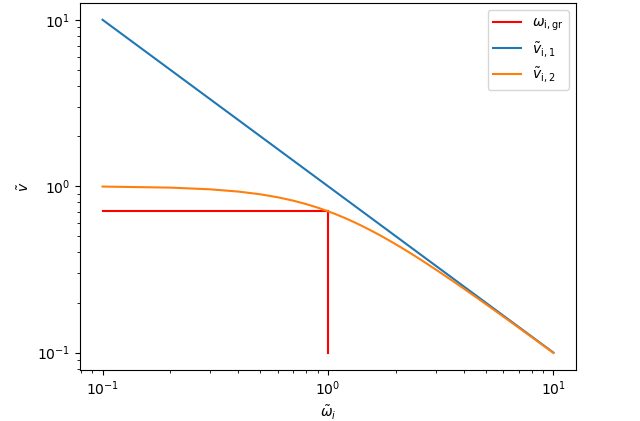
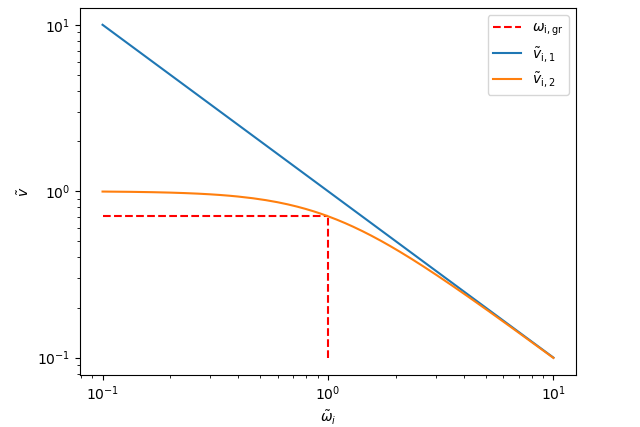
EL2: Quellen + Plots

diff --git a/Versuch_EL2/2_0-FragenZurVorbereitung.tex b/Versuch_EL2/2_0-FragenZurVorbereitung.tex
@@ -186,7 +186,7 @@ Mit erneuter doppellogarithmischen Auftragung ergibt sich dann Abbildung 2.6 .
 An Abbildung 2.6 kann man schon erkennen, dass sie in Prinzip eine spiegelverkehrte Abbildung 2.4 ist. Damit muss aber auch $f_{d,gr}=2\pi\omega_{d,gr}$ kleiner gewählt werden für einen idealen Betrieb des OPV im linearen Bereich.
 \newpage
 \section*{Bandpass 1.Ordnung}
-Diesen Schritt wiederholt man nun nochmal mit, aber nun wird noch zum Widerstand $R_2$ der Kondensator $C_2$ parallel geschaltet, was einer Kombinationsschaltung aus Integration und Differenzierschaltung darstellt. Damit folgt:
+Diesen Schritt wiederholt man nun nochmal mit, aber nun wird noch zum Widerstand $R_2$ der Kondensator $C_2$ parallel geschaltet, was einer Kombinationsschaltung aus Integration und Differenzierschaltung darstellt. Damit folgt: %http://techniker.pi-pro.de/fs/nae/pdf/filter.pdf
 \begin{gather}
     \begin{aligned}
         v_{d,i}(\omega) &= \abs{-\frac{Z_{Aus}}{Z_{Ein}}} = \abs{-\frac{\frac{1}{\frac{1}{R_2}+ i\omega C_2}}{R_1 + \frac{1}{i\omega C_1}}} = \abs{\frac{R_2}{R_1}~\frac{1}{1+i\omega R_2C_2}~\frac{i\omega R_1 C_1}{1+i\omega R_1C_1}}\\
@@ -201,4 +201,4 @@ Mit $R_1 = 2~\Omega, R_2 = \frac{1}{2}~\Omega, C_1 = 2~\text{F}$ und $C_2 = \fra
     \includegraphics[scale = 0.55]{bandfilter.png}
     \captionof{figure}{Frequenzabhängigkeit von $v$ zu $\omega$}
 \end{center}
-Die Bandpass wirkt als Differenzierer für $\omega \ll \omega_{d,gr}$ und bei $\omega \gg \omega_{i,gr}$ als Integrierer. Bei geeigneter Wahl von $R_1, R_2, C_1$ und $C_2$ kann der Bandbereich ($\omega \in [\omega_{d,gr},\omega_{i,gr}])$ geschmälert oder verbreitet werden. 
+Die Bandpass wirkt als Differenzierer für $\omega \ll \omega_{d,gr}$ und bei $\omega \gg \omega_{i,gr}$ als Integrierer. Bei geeigneter Wahl von $R_1, R_2, C_1$ und $C_2$ kann der Bandbereich ($\omega \in [\omega_{d,gr},\omega_{i,gr}])$ geschmälert oder verbreitet werden. %HBS

diff --git a/Versuch_EL2/2_0-Plots.py b/Versuch_EL2/2_0-Plots.py
@@ -17,9 +17,9 @@ x_igrv = np.repeat(1, anzahl)
 y_igrv = np.linspace(1/10, 1/np.sqrt(2), anzahl)
 
 #plt.plot(x, y0)
-'''
-plt.plot(x_igrh, y_igrh, color='r', label=r'$\omega_\mathregular{i,gr}$')
-plt.plot(x_igrv, y_igrv, color='r')
+
+plt.plot(x_igrh, y_igrh, color='r', linestyle='--', label=r'$\omega_\mathregular{i,gr}$')
+plt.plot(x_igrv, y_igrv, color='r', linestyle='--')
 plt.plot(x, yi1, Label=r'$\tilde{v}_\mathregular{i,1}$')
 plt.plot(x, yi2, Label=r'$\tilde{v}_\mathregular{i,2}$')
 plt.xscale('log')
@@ -28,7 +28,7 @@ plt.yscale('log')
 plt.ylabel(r'$\tilde{v}$')
 plt.legend()
 plt.show()
-'''
+
 '''DIFFERENZIERSCHALTUNG'''
 
 yd1 = x
@@ -40,9 +40,9 @@ x_dgrv = np.repeat(1, anzahl)
 y_dgrv = np.linspace(1/10, 1/np.sqrt(2), anzahl)
 
 #plt.plot(x, y0)
-'''
-plt.plot(x_dgrh, y_dgrh, color='r', label=r'$\omega_\mathregular{d,gr}$')
-plt.plot(x_dgrv, y_dgrv, color='r')
+
+plt.plot(x_dgrh, y_dgrh, color='r', linestyle='--', label=r'$\omega_\mathregular{d,gr}$')
+plt.plot(x_dgrv, y_dgrv, color='r', linestyle='--')
 plt.plot(x, yd1, Label=r'$\tilde{v}_\mathregular{d,1}$')
 plt.plot(x, yd2, Label=r'$\tilde{v}_\mathregular{d,2}$')
 plt.xscale('log')
@@ -51,7 +51,7 @@ plt.yscale('log')
 plt.ylabel(r'$\tilde{v}$')
 plt.legend()
 plt.show()
-'''
+
 '''KOMBINATIONSSCHALTUNG'''
 p = 2
 R1, R2 = p, 1/p
